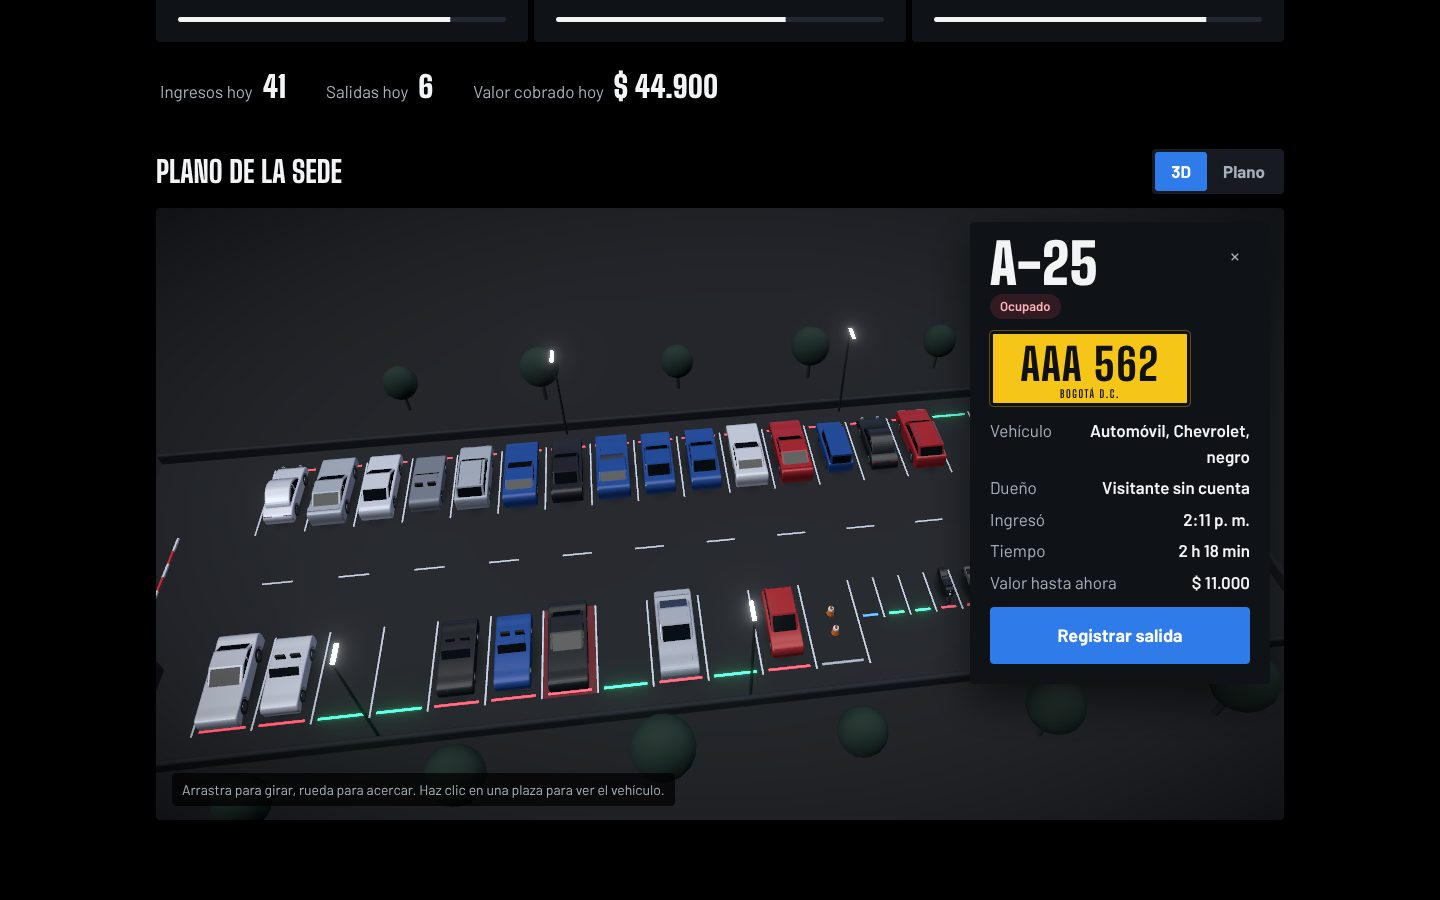
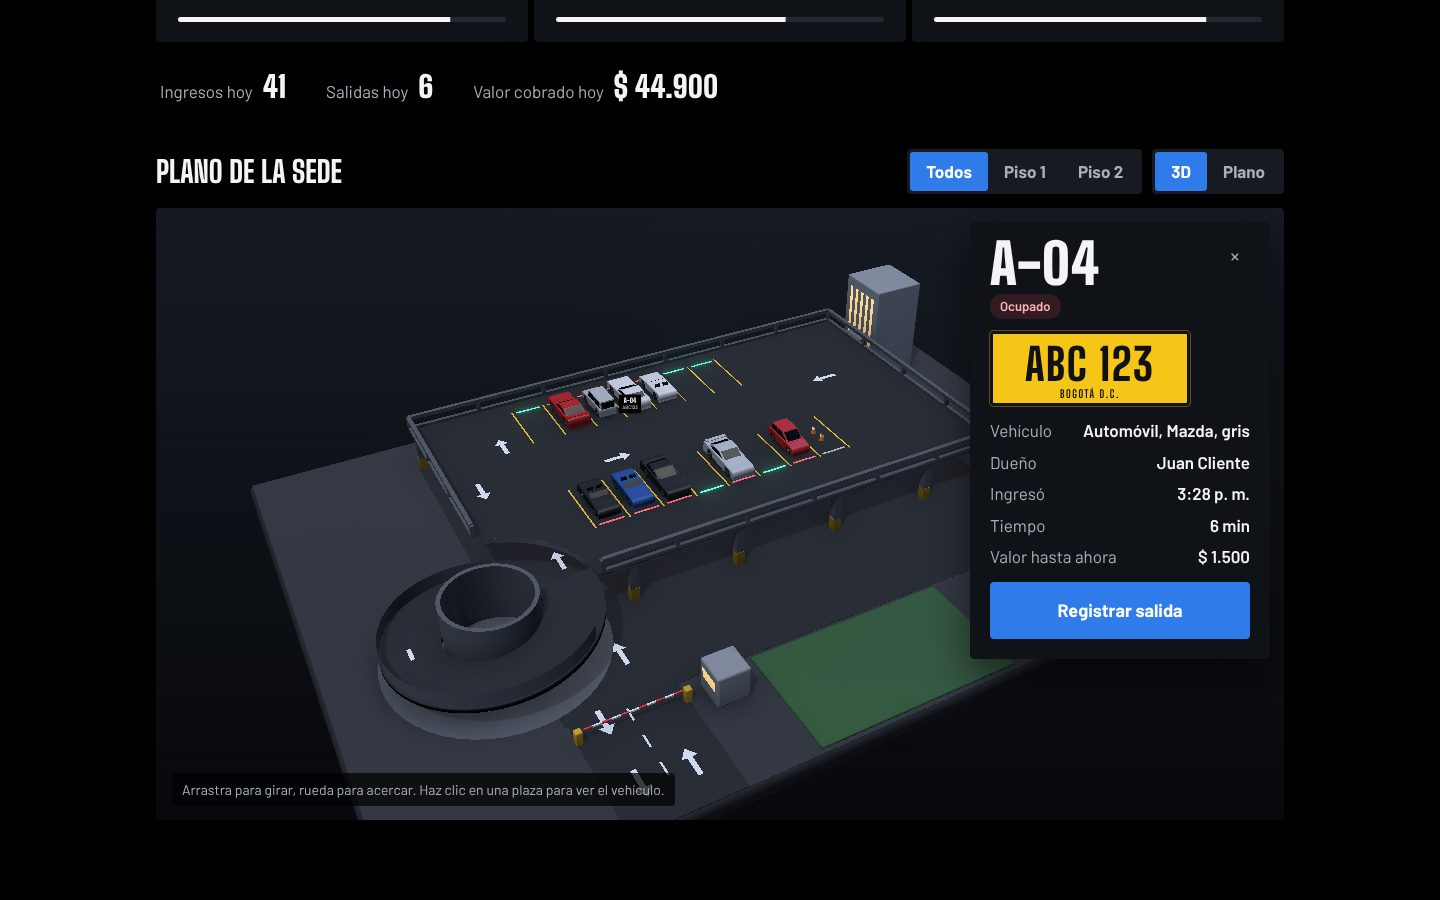
Documentación y capturas de la maqueta 3D y los pisos

diff --git a/docs/FRONTEND.md b/docs/FRONTEND.md
@@ -2,9 +2,10 @@
 
 Aplicación web en React 18 con TypeScript y Vite. Tiene modo oscuro y claro,
 con el azul de la señal de parqueadero como color de acción; el amarillo se
-reserva para las placas. Una escena 3D hecha con Three.js dibuja cada plaza
-con su estado real en la base de datos y cada carro con la silueta del modelo
-más conocido de su marca.
+reserva para las placas. Una escena 3D hecha con Three.js dibuja la sede
+como una maqueta flotante, con sus pisos, su rampa en espiral y cada plaza
+con su estado real en la base de datos. Los vehículos entran y salen
+animados cuando el operador registra cada movimiento.
 
 ## Contenido
 
@@ -21,8 +22,8 @@ más conocido de su marca.
 
 ## Portada pública
 
-La primera pantalla muestra la sede de noche, con los cerros orientales y la
-luz de Monserrate al fondo, y un contador con los cupos libres en ese momento.
+La primera pantalla muestra la maqueta de la sede girando despacio y un
+contador con los cupos libres en ese momento.
 
 ![Portada](capturas/01_portada.jpg)
 
@@ -122,7 +123,10 @@ reservado y el tiquete lo indica.
 | ![Reservas](capturas/15_operador_reservas.jpg) | ![Aviso](capturas/16_aviso_reserva.jpg) | ![Ingreso con reserva](capturas/17_ingreso_con_reserva.jpg) |
 
 **Disponibilidad.** Cupos por tipo, movimiento del día y el plano 3D, que se
-gira con el mouse. Al pasar sobre una plaza muestra su código y la placa; un
+gira con el mouse. En una sede de varios pisos, el filtro "Todos, Piso 1,
+Piso 2..." deja ver un solo piso: los demás quedan translúcidos y la cámara
+baja a la altura del piso elegido. El mismo filtro aplica al plano 2D, que
+agrupa las plazas por piso. Al pasar sobre una plaza muestra su código y la placa; un
 clic abre el detalle de la plaza, desde donde se registra la salida. La vista "Plano" muestra
 en cada plaza la placa o el código de bicicleta del vehículo; al hacer clic se
 abre el detalle con el vehículo, el dueño, la hora de ingreso, el valor hasta
@@ -133,6 +137,17 @@ ahora y el botón para registrar la salida.
 | ![Disponibilidad](capturas/18_disponibilidad.jpg) | ![Salida 3D](capturas/19_salida_desde_3d.jpg) | ![Salida](capturas/20_salida.jpg) |
 
 ![Plano 2D con el detalle de una plaza](capturas/27_plano_detalle.jpg)
+
+**Animación en tiempo real.** Cuando se registra un ingreso, el vehículo
+aparece en el borde de la maqueta, espera a que se levante la talanquera,
+sube por la rampa si su plaza está en otro piso y entra de frente a su
+plaza. Cuando se registra la salida, sale de reversa, baja por la rampa y se
+va por la talanquera de salida. Lo ve cualquier pantalla que tenga abierto
+el plano, porque el plano se consulta cada 5 segundos.
+
+| Solo el piso 1 | Un ingreso al piso 2, en cuatro momentos |
+| --- | --- |
+| ![Filtro de piso](capturas/37_filtro_piso.jpg) | ![Animación de ingreso](capturas/38_animacion_ingreso.jpg) |
 
 **En el parqueadero** lista los vehículos dentro con su tiempo y valor
 acumulado, y permite registrar la salida. **Historial** muestra las salidas
@@ -153,19 +168,24 @@ Tiene las mismas pestañas del operador, en todas las sedes, más **Sedes** y
 **Sedes.** El administrador crea o edita cada sede con:
 
 - nombre, dirección, ciudad y coordenadas;
-- cantidad de espacios y tarifa (hora, fracción de 15 minutos y día) por tipo
-  de vehículo;
+- cantidad de pisos (de 1 a 6) y espacios de cada tipo de vehículo en cada
+  piso; en los pisos 2 en adelante los códigos llevan el número del piso
+  (2A-01 es el automóvil 01 del piso 2);
+- tarifa (hora, fracción de 15 minutos y día) por tipo de vehículo;
 - horario de atención por día de la semana, con atajos para 24 horas o lunes
   a sábado;
 - los operadores que tienen acceso a la sede.
 
-Mientras edita, la vista previa 3D se arma con los espacios del formulario.
+Mientras edita, la vista previa 3D se arma con los pisos y espacios del
+formulario, con el mismo filtro de pisos.
 En una sede existente, un clic sobre un espacio libre lo marca fuera de
 servicio o lo habilita de nuevo.
 
 | Lista de sedes | Editar una sede | Horario y operadores |
 | --- | --- | --- |
 | ![Sedes](capturas/31_sedes.jpg) | ![Editar](capturas/32_editar_sede.jpg) | ![Horario](capturas/33_horario_operadores.jpg) |
+
+![Nueva sede de tres pisos](capturas/39_editor_pisos.jpg)
 
 **Bitácora:** todas las
 operaciones del sistema con su usuario, resultado y detalle, filtrables por
@@ -189,15 +209,35 @@ opciones se guardan en el navegador.
 ## En el celular
 
 La interfaz se adapta desde 360 px de ancho. En el teléfono, la cámara de la
-portada mira a lo largo del carril y los textos pasan a una sola columna.
+portada se aleja para mostrar la maqueta completa y los textos pasan a una
+sola columna.
 
 ![Celular](capturas/24_celular.jpg)
 
 ## Cómo está hecha la escena 3D
 
 La escena no usa modelos descargados ni imágenes: todo se dibuja con código a
-partir de los datos de la base, con el aspecto de una maqueta de
-presentación: superficies mate, luz suave y sombras difusas.
+partir de los datos de la base. El estilo es el de una maqueta flotante
+sobre un fondo liso, sin árboles, edificios ni paisaje: una base con bordes
+redondeados, losas de concreto, asfalto gris, líneas amarillas, columnas con
+franjas de peligro, barandas de concreto, una rampa en espiral y un núcleo
+blanco de escaleras. La luz es de estudio, con sombras suaves y oclusión
+ambiental para que las piezas se vean como objetos de una maqueta.
+
+**La sede.** `three/layout.ts` convierte la lista de espacios en posiciones.
+Cada piso se arma con carriles paralelos y una fila de plazas a cada lado,
+con medidas por tipo de vehículo (carro 2,7 × 5,2 m). Al oeste corre la vía
+de circulación, que une los carriles con la entrada al sur. Todos los pisos
+comparten la huella del piso más largo; si la sede tiene más de un piso, la
+rampa en espiral se ubica al suroeste y cada vuelta sube un piso. Si se
+agregan espacios o pisos en la base, la maqueta crece sola.
+
+**Los recorridos.** `three/rutas.ts` calcula el camino de cada vehículo como
+una curva suave: desde el borde de la maqueta, por la talanquera, la vía de
+circulación, la espiral (si hace falta) y el carril, hasta la plaza. La
+salida empieza con un tramo en reversa. Los vehículos aceleran, frenan ante
+la talanquera, se inclinan en la rampa y avisan su posición para que la
+talanquera se levante cuando se acercan.
 
 **Vehículos por marca.** Cada carro se construye extruyendo una silueta
 lateral simplificada, al estilo de los íconos de carros de las apps de
@@ -208,31 +248,34 @@ vehículo. Las motos también cambian de forma según la marca.
 
 **Librerías.** Three.js dibuja en el navegador con WebGL. React Three Fiber
 permite escribir la escena como componentes de React. Drei aporta el control
-de cámara, las estrellas y las etiquetas sobre las plazas. Postprocessing
-agrega el brillo (bloom) de las luces.
+de cámara, las piezas redondeadas y las etiquetas sobre las plazas.
+Postprocessing agrega la oclusión ambiental (N8AO) y, en modo oscuro, el
+brillo de las luces.
 
 **Datos.** La página consulta el estado de cada espacio cada 5 segundos
 (`/api/estacionamiento/plano`, o `/espacios` para el personal, que incluye
-placas). `three/layout.ts` convierte esa lista en posiciones: un carril con
-una fila de plazas a cada lado, con medidas por tipo de vehículo (carro 2,7 ×
-5,2 m). Si se agregan espacios en la base, el parqueadero crece solo.
+placas). Cada espacio trae su piso.
 
-| Archivo | Qué dibuja |
+| Archivo | Qué dibuja o calcula |
 | --- | --- |
+| `three/layout.ts` | Posición de cada plaza por piso, vía de circulación, rampa y base |
+| `three/Estructura.tsx` | Base, acceso con talanqueras y caseta, losas, columnas, barandas, rampa en espiral y núcleo |
+| `three/Plazas.tsx` | Líneas, testigo de estado (verde libre, rojo ocupado, azul reservado), conos fuera de servicio y vehículos |
+| `three/rutas.ts` | Recorridos de entrada y salida y el movimiento de los vehículos |
+| `three/Vehiculo.tsx` | Carros extruidos desde la silueta, motos y bicicletas; versión translúcida para los pisos atenuados |
 | `three/modelos.ts` | Siluetas por marca y colores por nombre |
-| `three/Vehiculo.tsx` | Carros extruidos desde la silueta, motos y bicicletas; luces delanteras y traseras |
-| `three/tema.ts` | Paletas oscura y clara de la escena |
-| `three/Plazas.tsx` | Líneas, testigo de estado (verde libre, rojo ocupado, azul reservado), conos fuera de servicio, animación de entrada y salida |
-| `three/Entorno.tsx` | Lote, barrera, postes, árboles y entorno de la portada |
-| `three/texturas.ts` | Placas y ventanas de edificios dibujadas en un canvas |
-| `three/Escena.tsx` | Cámara, luces, niebla y efectos |
+| `three/materiales.ts` | Materiales compartidos y su versión translúcida para el filtro de pisos |
+| `three/tema.ts` | Paletas clara y oscura de la maqueta |
+| `three/texturas.ts` | Placas y sombra difusa dibujadas en un canvas |
+| `three/Escena.tsx` | Cámara, luces, fondo y efectos |
 | `three/control.ts` | Estado compartido con la página, sin Three.js |
 
 **Cámara.** Tiene cuatro modos: portada (vuelo lento con paralaje del mouse),
-historia (sigue el scroll), vivo (vista aérea) y panel (el usuario la gira y
+historia (sigue el scroll; si la plaza está bajo otro piso, la cámara baja y
+sigue al carro entre losas), vivo (vista aérea) y panel (el usuario la gira y
 selecciona plazas).
 
-**Rendimiento.** La escena se descarga en un archivo aparte de unos 900 kB,
+**Rendimiento.** La escena se descarga en un archivo aparte de unos 1,2 MB,
 así que la página aparece primero. Si el equipo no soporta WebGL se muestra el
 plano 2D, y si el sistema tiene activada la opción de reducir movimiento la
 cámara no se mueve sola.
@@ -253,7 +296,7 @@ frontend/src/
 │   ├── Bitacora.tsx        # Bitácora (administrador)
 │   ├── admin/              # Sedes: crear y editar
 │   └── cliente/            # Mi parqueo, Mis vehículos, Mi historial, Notificaciones
-├── components/             # Placa, Tiquete, Selector, CampoOpciones, Apariencia, Notificador, diálogos
+├── components/             # Placa, Tiquete, Selector, CampoOpciones, FiltroPisos, Apariencia, Notificador, diálogos
 ├── three/                  # Escena 3D
 ├── lib/
 │   ├── api.ts              # Cliente HTTP y tipos de la API

diff --git a/README.md b/README.md
@@ -4,7 +4,9 @@ Sistema transaccional para la gestión de parqueaderos. Muestra los cupos
 libres de cada sede en tiempo real, registra ingresos y salidas con cálculo
 automático del cobro, permite a los clientes reservar un espacio dentro del
 horario de la sede y deja cada operación en una bitácora. El administrador
-crea las sedes con sus espacios, tarifas, horario y operadores.
+crea las sedes con sus pisos, espacios, tarifas, horario y operadores. Cada
+sede se ve como una maqueta 3D donde los vehículos entran y salen en tiempo
+real.
 
 Proyecto de Sistemas Transaccionales, Universidad Manuela Beltrán.
 Grupo 2: Bryan Failach, Alejandro Castellanos y Brayan Bello.
@@ -45,14 +47,14 @@ El detalle de cada pantalla, con capturas, está en
 | Inicio de sesión con JWT, control de acceso por rol y creación de cuenta de cliente | RF01 | Implementado |
 | Estado e historial del cliente (vehículo dentro, valor acumulado, visitas) | RF03 | Implementado |
 | Vehículos del cliente: registrar, consultar y quitar | RF04 | Implementado |
-| Consulta de cupos libres por sede y tipo, con plano 3D y 2D | RF05 | Implementado |
+| Consulta de cupos libres por sede y tipo, con plano 3D y 2D, filtro por piso y animación de ingresos y salidas | RF05 | Implementado |
 | Registro de ingreso con asignación automática de espacio | RF06 | Implementado |
 | Registro de salida con cálculo de permanencia y tarifa | RF07 | Implementado |
 | Reservas: reservar, cancelar, expirar a los 30 minutos, vista del operador | RF10 | Implementado |
 | Actualización de la disponibilidad sin recargar la página | RF12 | Consulta cada 5 s. WebSocket en la siguiente fase |
 | Historial de salidas y totales del día | RF13 | Implementado |
 | Bitácora de transacciones con consulta para el administrador | RF14, RNF08 | Implementado |
-| Gestión de sedes: espacios, tarifas por sede, horario, fuera de servicio y operadores asignados | RF11 | Implementado |
+| Gestión de sedes: pisos, espacios por piso, tarifas por sede, horario, fuera de servicio y operadores asignados | RF11 | Implementado |
 | Horario de atención: no se aceptan reservas fuera del horario | RF10 | Implementado |
 | Notificaciones configurables de tiempo, valor y vencimiento de la reserva | RF03 | Implementado |
 | Pagos y comprobantes, anulación, gestión de usuarios | RF02, RF08, RF09 | Siguiente fase |
@@ -63,7 +65,7 @@ El detalle de cada pantalla, con capturas, está en
 | Elemento | Valor |
 | --- | --- |
 | Frontend | React 18, TypeScript, Vite |
-| 3D | Three.js con React Three Fiber, Drei y postprocesado (bloom) |
+| 3D | Three.js con React Three Fiber, Drei y postprocesado (oclusión ambiental y bloom) |
 | Backend | Node.js, TypeScript, Express |
 | Base de datos | PostgreSQL |
 | Seguridad | JWT, contraseñas con bcrypt |
@@ -148,6 +150,11 @@ un código único (BICI001, BICI002...) que le dice al operador al llegar. En el
 ingreso, el operador busca el código; si la bicicleta llega sin registro, el
 sistema genera uno nuevo.
 
+**Pisos.** Una sede puede tener de 1 a 6 pisos, unidos por una rampa en
+espiral. El ingreso asigna primero los espacios del piso 1 y luego los de los
+pisos de arriba. En los pisos 2 en adelante el código del espacio lleva el
+número del piso: 2A-01 es el automóvil 01 del piso 2.
+
 **Sedes y operadores.** Cada sede tiene sus propias tarifas y su horario por
 día de la semana. Un operador solo puede registrar ingresos y salidas en las
 sedes que el administrador le asignó. Al reducir los espacios de una sede se
@@ -196,7 +203,7 @@ código 409 y ningún espacio duplicado (RNF03).
 Parkway/
 ├── database/
 │   ├── schema.sql          # Tablas, claves, restricciones e índices
-│   ├── seed.sql            # Usuarios, sedes, 71 espacios y tarifas de prueba
+│   ├── seed.sql            # Usuarios, dos sedes (una de dos pisos), 71 espacios y tarifas
 │   └── demo.sql            # Vehículos dentro, salidas, reservas y bitácora de ejemplo
 ├── backend/
 │   ├── src/
@@ -257,7 +264,7 @@ Parkway/
 | GET, POST | `/api/cliente/reservas` | Cliente | Consultar y crear reservas |
 | POST | `/api/cliente/reservas/:idReserva/cancelar` | Cliente | Cancelar una reserva activa |
 | GET, PUT | `/api/cliente/preferencias` | Cliente | Configuración de las notificaciones |
-| GET, POST | `/api/admin/parqueaderos` | Administrador | Consultar y crear sedes con espacios, tarifas, horario y operadores |
+| GET, POST | `/api/admin/parqueaderos` | Administrador | Consultar y crear sedes con pisos, espacios por piso, tarifas, horario y operadores |
 | GET, PUT | `/api/admin/parqueaderos/:id` | Administrador | Consultar y editar una sede |
 | PATCH | `/api/admin/espacios/:id` | Administrador | Marcar un espacio fuera de servicio o habilitarlo |
 | GET | `/api/admin/operadores` | Administrador | Operadores disponibles para asignar |

diff --git a/docs/INSTALACION_WINDOWS.md b/docs/INSTALACION_WINDOWS.md
@@ -93,6 +93,7 @@ en cada carpeta; `npm install` solo se repite si cambian las dependencias.
 | `createdb` o `psql` no se reconoce | Falta la carpeta de PostgreSQL en el PATH. Corre la línea `$env:Path += ...` del paso 3. |
 | `password authentication failed for user "postgres"` | La contraseña no coincide. Si no la recuerdas, mira la sección siguiente. |
 | `database/schema.sql: No such file or directory` | Estás en `backend` o `frontend`. Vuelve a la carpeta principal con `cd ..`. |
+| El backend muestra `column ... does not exist` o `relation ... does not exist` | La base tiene la estructura de una versión anterior. Después de cada `git pull` que cambie `database/`, vuelve a ejecutar los tres scripts del paso 3 (borran y recrean las tablas con los datos de ejemplo). |
 | Aparece "BogotÃ¡" en lugar de "Bogotá" | La base se creó con una versión anterior de los scripts. Vuelve a ejecutar los tres scripts del paso 3; ahora fijan la codificación UTF-8. |
 | La página carga pero no muestra datos | El backend no está corriendo, o `DB_PASSWORD` en `backend\.env` es incorrecta. Revisa la terminal del backend. |
 | `port 3000 is already in use` o `port 5173` | El servidor ya está abierto en otra terminal. Ciérrala o presiona Ctrl+C en ella. |
